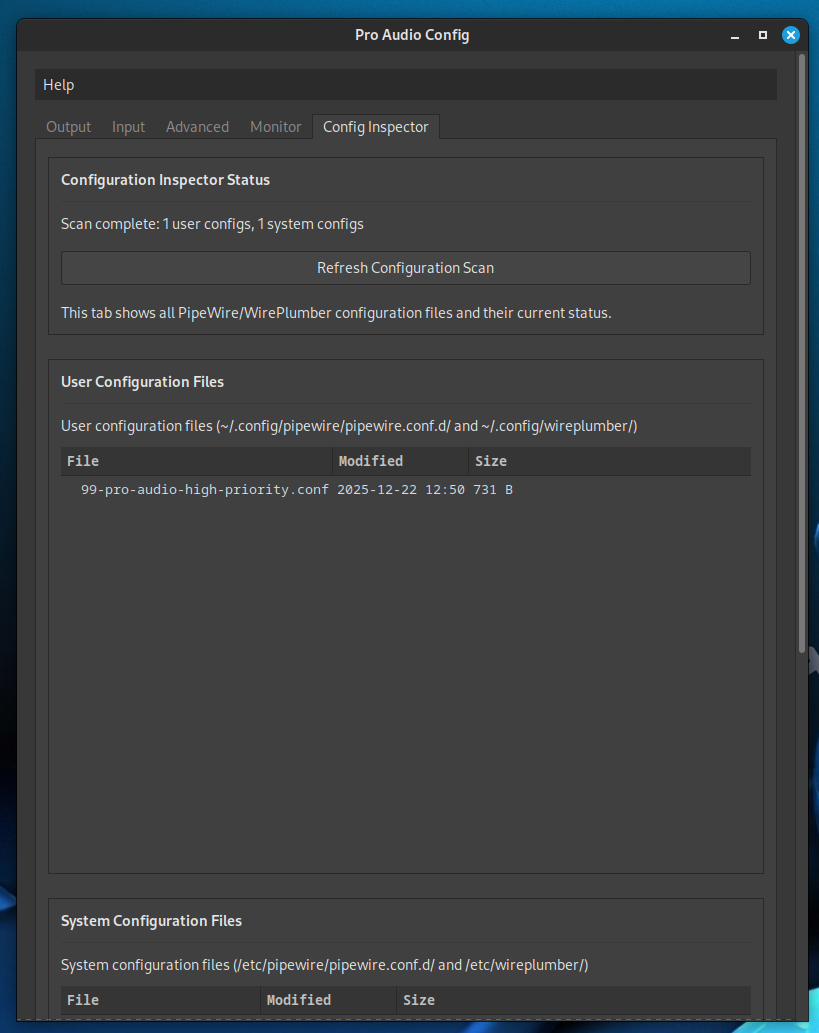
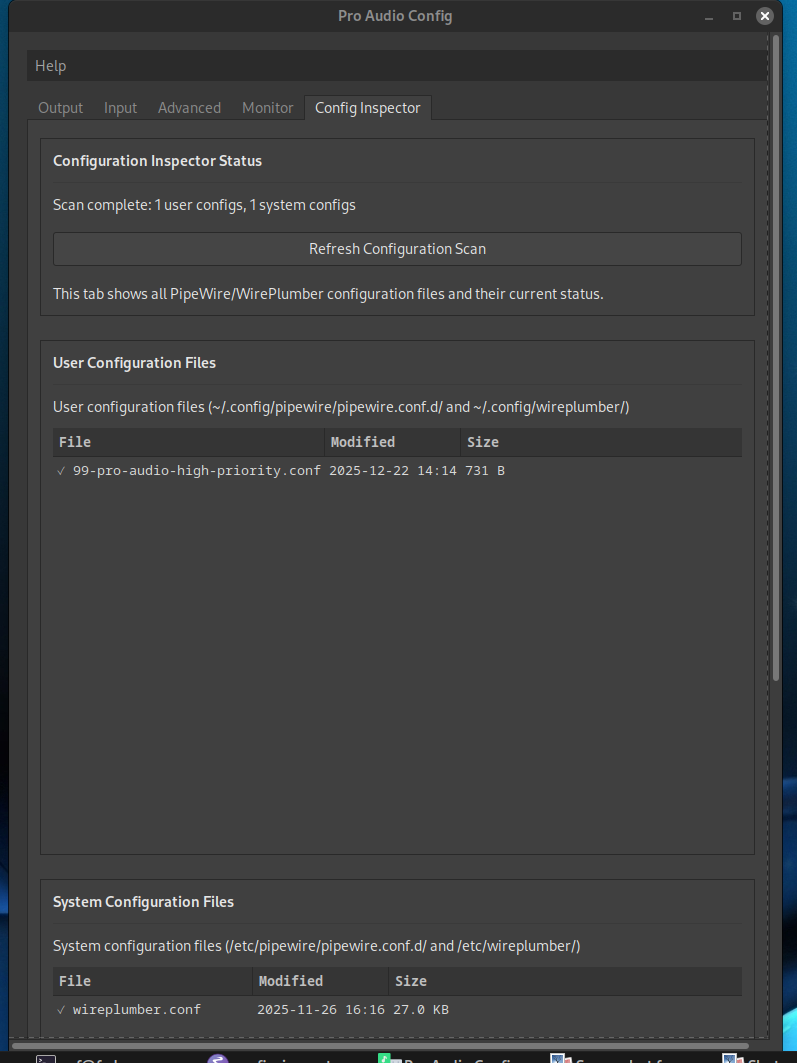
feat(config-inspector): Implement active configuration file detection [version 1.9]
- Added heuristic-based active config detection for PipeWire/WirePlumber files
- Implemented filename pattern matching for high-priority configs (99- prefix)
- Added content analysis for pro-audio settings and application signatures
- Enhanced pw-dump property parsing to identify referenced configuration files
- ✓ checkmarks now properly display for active pro-audio configuration files
- Improved user feedback with visual indicators of configuration status
- Integrated desktop environment-aware file opening with terminal detection

diff --git a/src/config_inspector.rs b/src/config_inspector.rs
@@ -767,16 +767,9 @@ done"#,
             .to_string_lossy()
             .to_string();
 
-        // Check if this file is active by looking for its properties in the active config
-        let mut is_active = false;
-
-        // Check if any properties reference this filename
-        for files in active_properties.values() {
-            if files.iter().any(|f| f.contains(&filename)) {
-                is_active = true;
-                break;
-            }
-        }
+        // NEW: Check if this file is active using the heuristic function
+        let is_active = Self::is_config_file_active(path)
+            || Self::is_config_active_in_properties(&filename, active_properties);
 
         Ok(ConfigFileInfo {
             path: path.to_path_buf(),
@@ -792,6 +785,69 @@ done"#,
                 first_lines
             },
         })
+    }
+
+    // Heuristic function to check if a config file is likely active
+    fn is_config_file_active(path: &Path) -> bool {
+        let filename = path
+            .file_name()
+            .unwrap_or_default()
+            .to_string_lossy()
+            .to_string();
+
+        // Heuristic 1: Check filename for common high-priority/override patterns
+        // Files prefixed with high numbers (like "99-") are loaded last and override others.
+        if filename.starts_with("99-") || filename.contains("pro-audio") {
+            return true;
+        }
+
+        // Heuristic 2: Check file content for pro-audio settings
+        if let Ok(content) = fs::read_to_string(path) {
+            // A reliable marker: Check if this config was generated by *this* app.
+            // When your app creates a config, add a unique comment like:
+            // "# Generated by Pro Audio Config v1.9"
+            if content.contains("# Generated by Pro Audio Config") {
+                return true;
+            }
+
+            // Fallback: Check for common pro-audio property keys.
+            let pro_audio_indicators = [
+                "api.alsa.period-size",
+                "api.alsa.headroom",
+                "node.latency",
+                "clock.rate",
+                "audio.format",
+                "audio.rate",
+                "session.suspend-timeout-seconds", // A common setting
+                "priority.driver",
+                "rt.prio",
+                "mem.lock",
+                "resample.quality",
+            ];
+
+            for indicator in &pro_audio_indicators {
+                if content.contains(indicator) {
+                    return true;
+                }
+            }
+        }
+
+        false
+    }
+
+    // Helper function to check if config is active in properties
+    fn is_config_active_in_properties(
+        filename: &str,
+        active_properties: &HashMap<String, Vec<String>>,
+    ) -> bool {
+        for files in active_properties.values() {
+            for file in files {
+                if file == filename || file.contains(filename) || filename.contains(file) {
+                    return true;
+                }
+            }
+        }
+        false
     }
 
     fn add_config_to_store(store: &ListStore, config: &ConfigFileInfo) {
